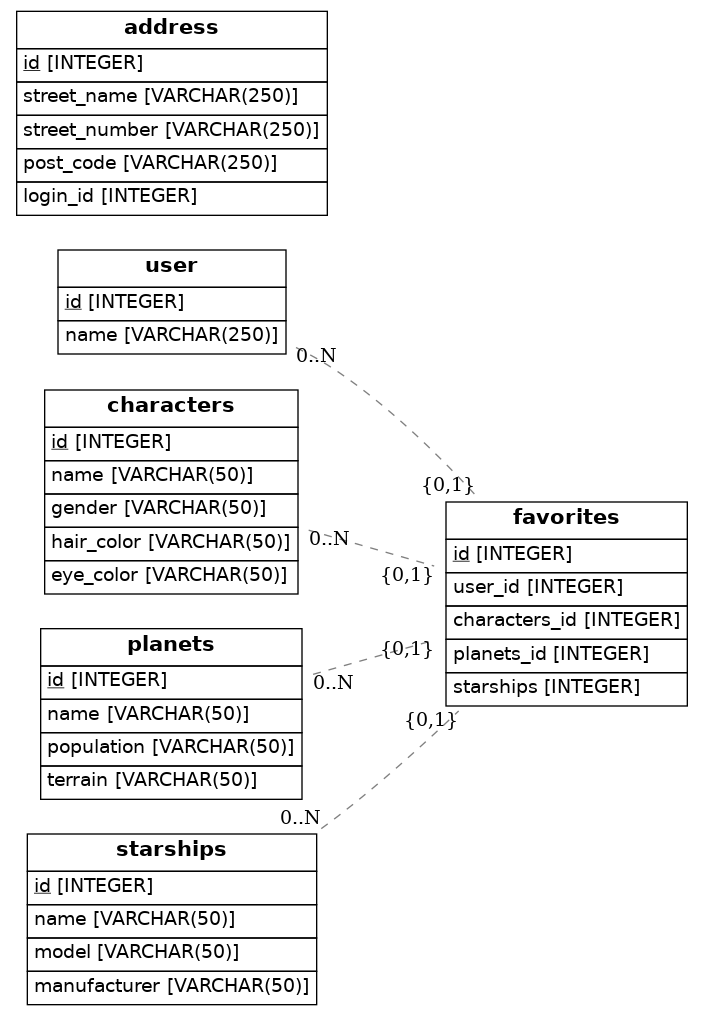
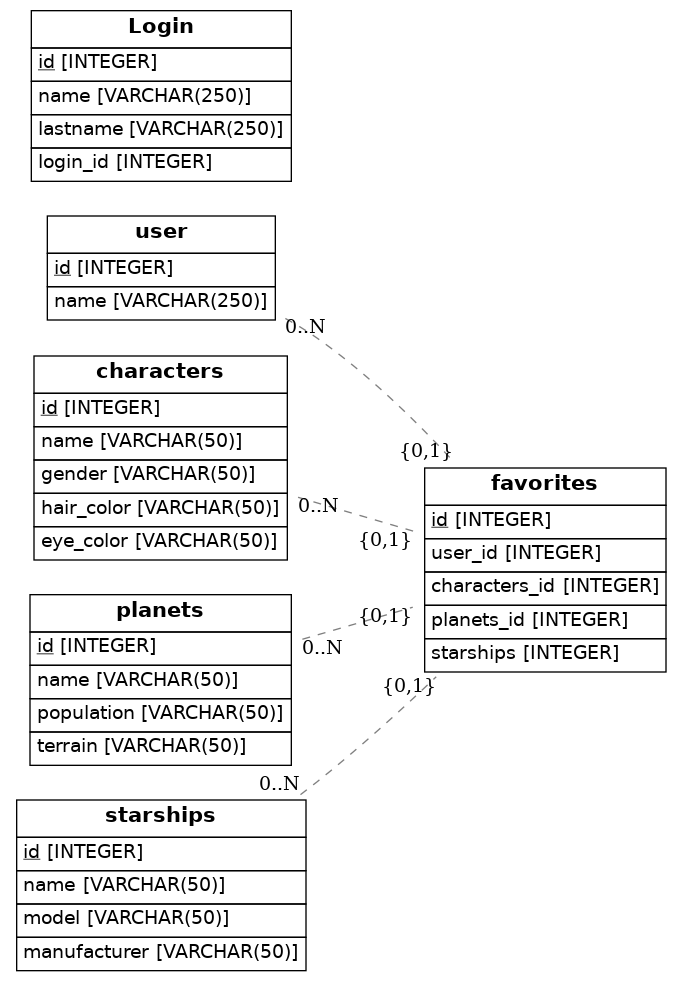
Login and user relationships

Changed region(s): [[0.0, 0.0, 0.5242, 1.0], [0.5242, 0.4281, 0.9868, 0.7339]]

diff --git a/src/models.py b/src/models.py
@@ -16,13 +16,11 @@ class User(Base):
     name = Column(String(250), nullable=False)
 
 class LogIn(Base):
-    __tablename__ = 'address'
-    # Here we define columns for the table address.
-    # Notice that each column is also a normal Python instance attribute.
+    __tablename__ = 'Login'
+
     id = Column(Integer, primary_key=True)
-    street_name = Column(String(250))
-    street_number = Column(String(250))
-    post_code = Column(String(250), nullable=False)
+    name = Column(String(250))
+    lastname = Column(String(250))
     login_id = Column(Integer, ForeignKey('login.id'))
     LogIn = relationship(User)
 
